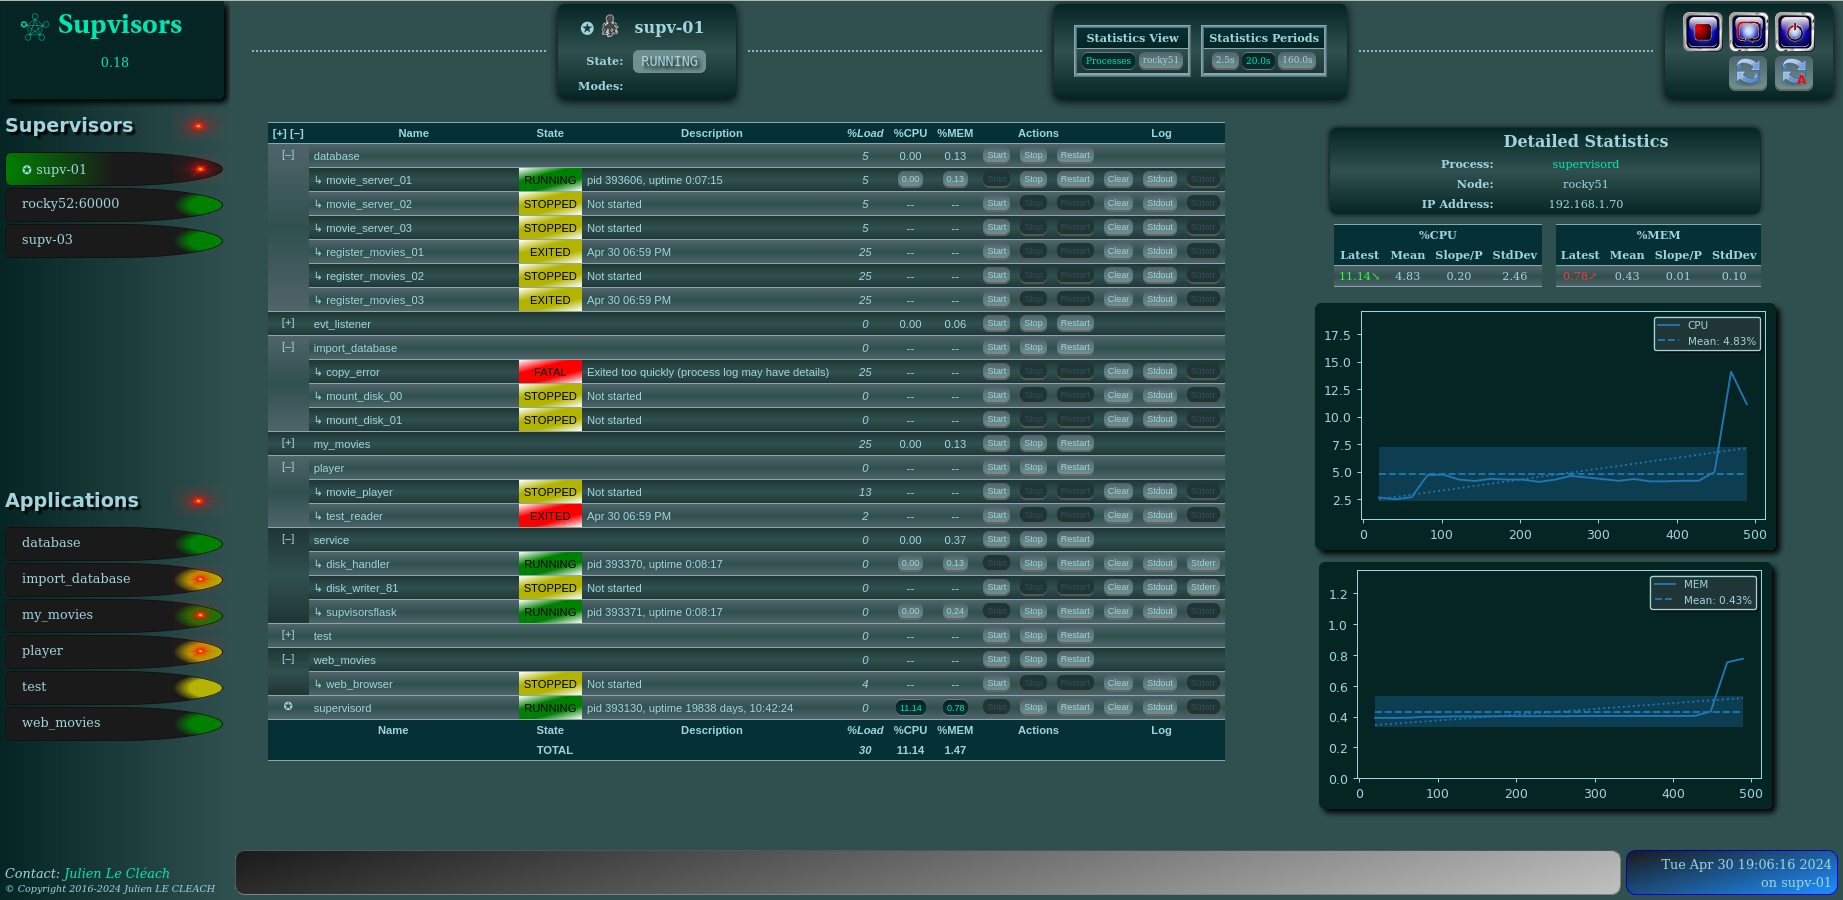
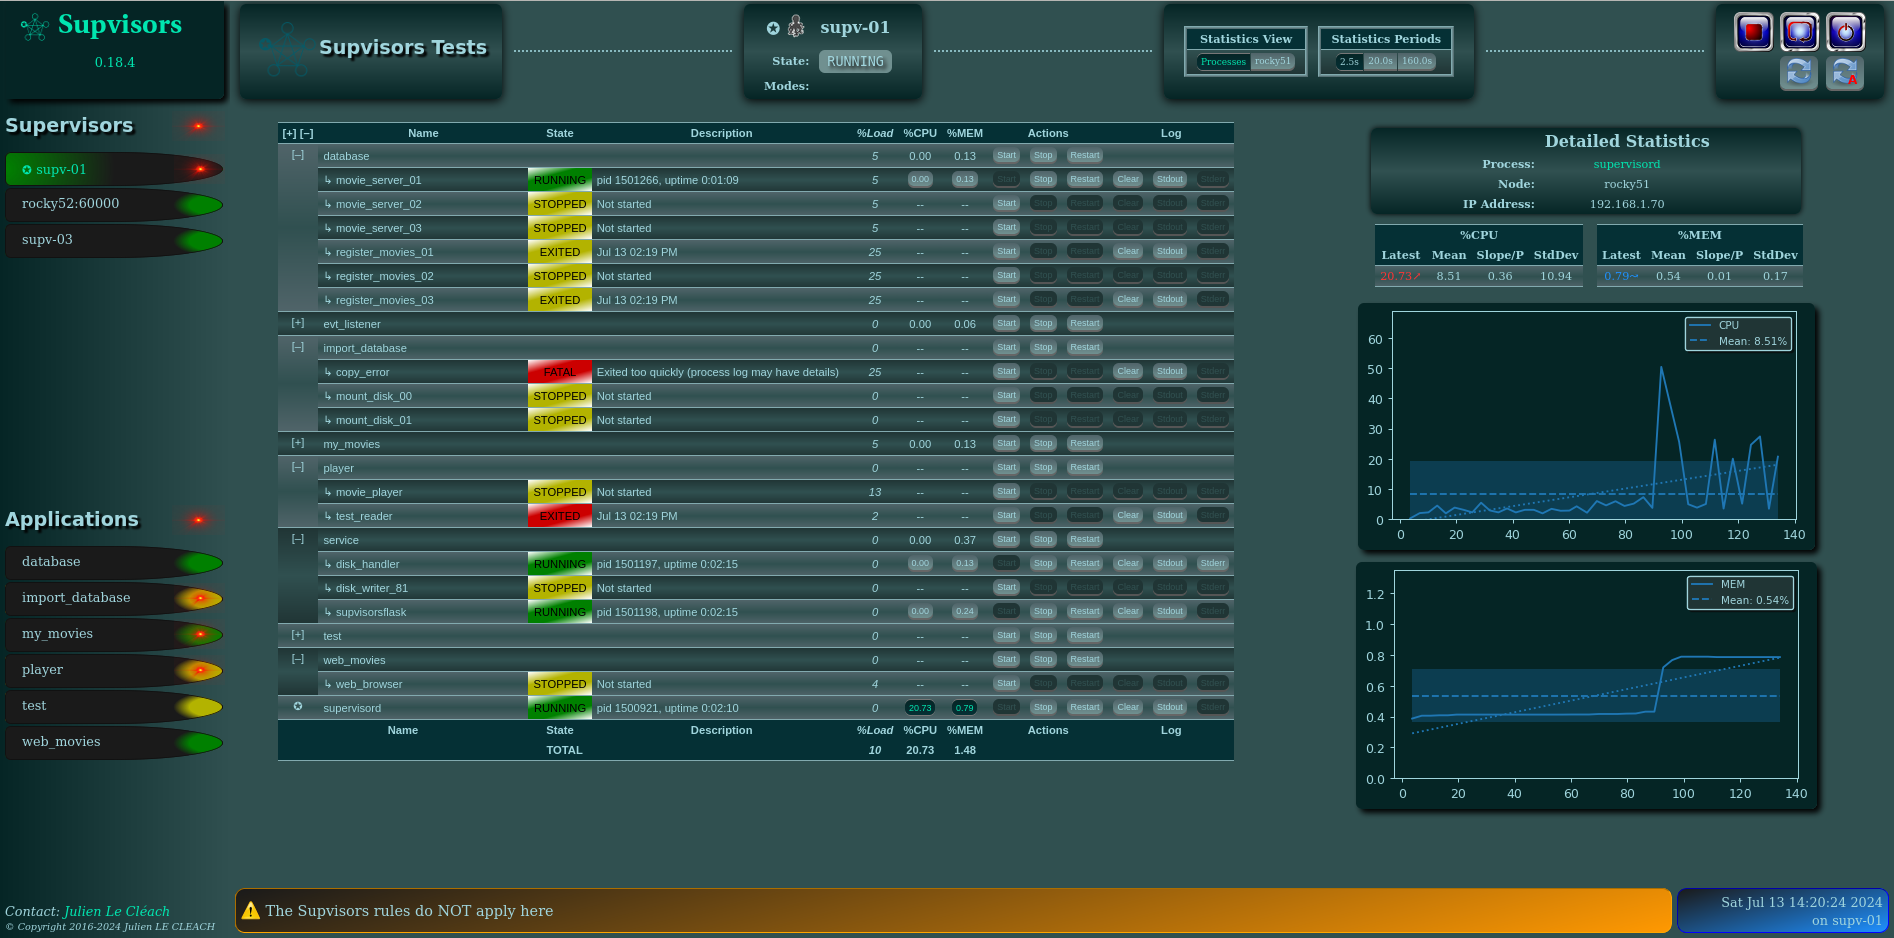
default warning message to state that Supvisors rules don't apply on the Supervisor page

diff --git a/supvisors/web/viewprocinstance.py b/supvisors/web/viewprocinstance.py
@@ -45,7 +45,7 @@ class ProcInstanceView(SupvisorsInstanceView):
         super().handle_parameters()
         # pre-fill the message here to warn the user about the actions on this page
         # it will always be displayed by default unless it is overwritten by another message
-        self.view_ctx.set_message_default(Warn, 'The Supvisors rules do NOT apply here')
+        self.view_ctx.set_message_default('The Supvisors rules do NOT apply here', Warn)
 
     def write_options(self, header_elt):
         """ Write configured periods for statistics.

diff --git a/supvisors/tests/test_viewprocinstance.py b/supvisors/tests/test_viewprocinstance.py
@@ -59,7 +59,7 @@ def test_handle_parameters(mocker, view):
     view.view_ctx = Mock()
     view.handle_parameters()
     assert mocked_handle.call_args_list == [call()]
-    assert view.view_ctx.set_message_default.call_args_list == [call(Warn, 'The Supvisors rules do NOT apply here')]
+    assert view.view_ctx.set_message_default.call_args_list == [call('The Supvisors rules do NOT apply here', Warn)]
 
 
 def test_write_options(mocker, view):
